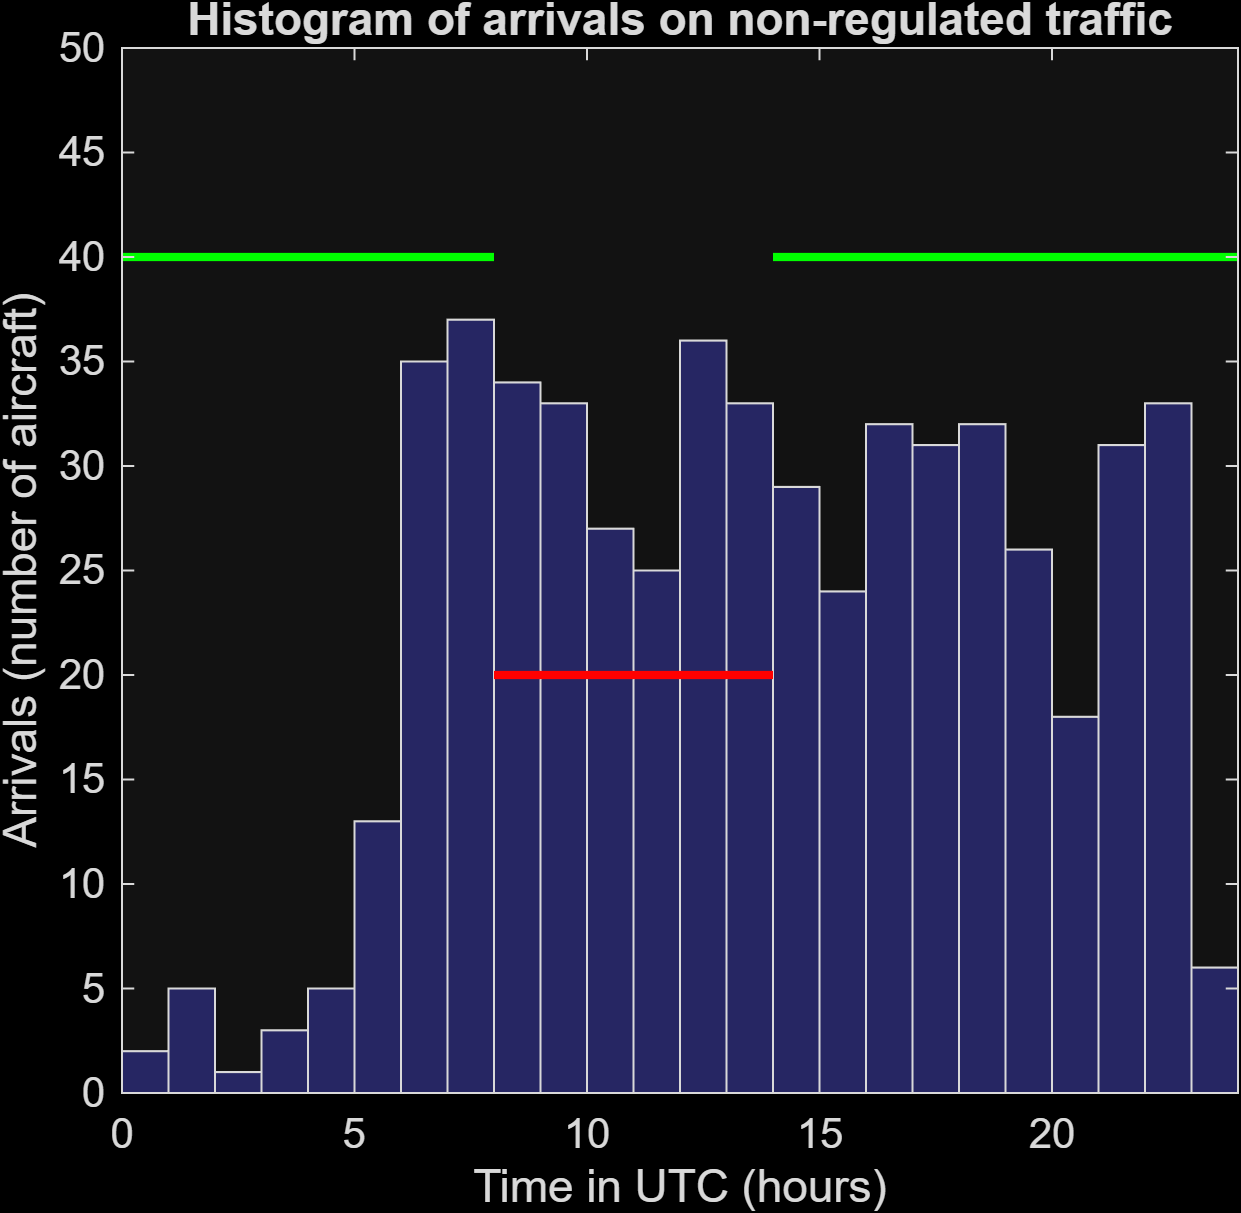
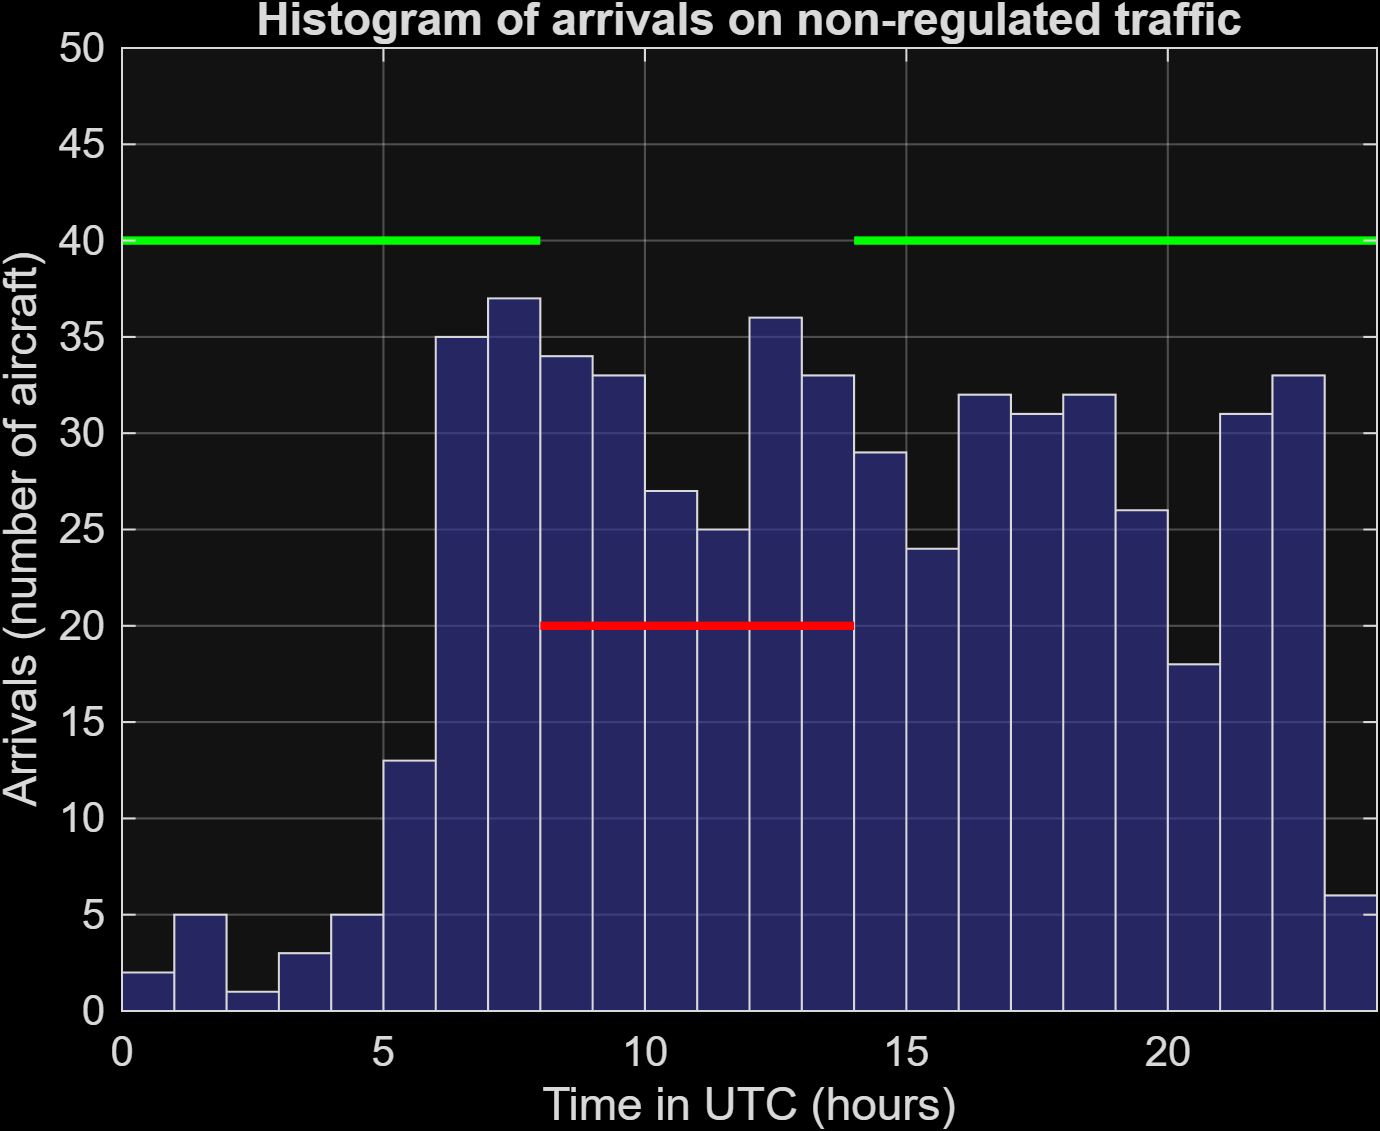
Done

diff --git a/calcular_regulacion.m b/calcular_regulacion.m
@@ -1,70 +1,76 @@
-function [HNoReg, totalDelay] = calcular_regulacion(ETA, Hstart1, Hend1, Hstart2, Hend2, PAAR, AAR)
-% WP1 - Version sencilla y correcta: acumulamos desde el inicio de regulacion (Hstart1)
-
-    % 1) ETA a minutos del día
-    ETA_min = round(mod(ETA * 24 * 60, 1440));   % 0..1440
-
-    % 2) Pasar horas a minutos
-    start1 = round(Hstart1*60);  end1 = round(Hend1*60);
-    start2 = round(Hstart2*60);  end2 = round(Hend2*60);
-
-    % 3) Tiempo de análisis: desde start1 hasta fin del día
-    t = (start1:1440)';                 % minutos
-    nT = length(t);
-
-    % 4) DEMANDA por minuto (solo contamos llegadas desde start1 en adelante)
-    arrivalsPerMin = zeros(nT,1);
-    for i = 1:length(ETA_min)
-        m = ETA_min(i);
-        if m >= start1 && m <= 1440
-            idx = (m - start1) + 1;     % convertir minuto real a índice de vector t
-            arrivalsPerMin(idx) = arrivalsPerMin(idx) + 1;
-        end
+function [HNoReg, delay] = calcular_regulacion(ETA, Hstart, Hend, PAAR, AAR)
+    %Funcion para calcular la hora de final de regulacion y hacer el
+    %grafico de aggregate demand
+    if max(ETA) <= 1
+        ETA_hores = ETA * 24; 
+    else
+        ETA_hores = ETA; 
     end
-
-    % 5) CAPACIDAD por minuto (desde start1)
-    capPerMin = zeros(nT,1);
-    for k = 1:nT
-        minutoReal = t(k);
-
-        if (minutoReal >= start1 && minutoReal <= end1) || (minutoReal >= start2 && minutoReal <= end2)
-            capPerMin(k) = PAAR/60;
+    minutos_dia = (0:1440)';
+    
+    % DEMANDA AGREGADA
+    vols_per_minut = histcounts(ETA_hores * 60, [minutos_dia', 1442]);
+    AggregateDemand = [minutos_dia, cumsum(vols_per_minut)'];
+    
+    %Cálculo de capacidades nominal y reducida
+    Cap_Red = zeros(1441, 1); 
+    Cap_Nom = zeros(1441, 1);
+    Cap_Red(1) = AggregateDemand(1, 2); 
+    Cap_Nom(1) = AggregateDemand(1, 2);
+    
+    for i = 2:1441
+        t = minutos_dia(i) / 60;
+        r_nom = AAR / 60;
+        Cap_Nom(i) = min(Cap_Nom(i-1) + r_nom, AggregateDemand(i, 2));
+        
+        if t >= Hstart && t < Hend
+            r_red = PAAR / 60; 
         else
-            capPerMin(k) = AAR/60;
+            r_red = AAR / 60; 
         end
+        Cap_Red(i) = min(Cap_Red(i-1) + r_red, AggregateDemand(i, 2));
     end
-
-    % 6) Acumuladas (como piden las slides)
-    DemandCum   = cumsum(arrivalsPerMin);
-    CapacityCum = cumsum(capPerMin);
-
-    % 7) Cola / backlog y delay mínimo total
-    Backlog = DemandCum - CapacityCum;
-    Backlog(Backlog < 0) = 0;
-
-    totalDelay = sum(Backlog);
-
-    % 8) HNoReg = primer minuto despues del final de la 2ª ventana donde backlog = 0
-    HNoReg = NaN;
-    for minutoReal = (end2+1):1440
-        k = (minutoReal - start1) + 1;
-        if k >= 1 && k <= nT && Backlog(k) == 0
-            HNoReg = minutoReal/60;
-            break
-        end
+    
+    % Cálculo Delay y HNoReg
+    delay = sum(AggregateDemand(:, 2) - Cap_Red);
+    idx_recuperacion = find(minutos_dia/60 >= Hend & Cap_Red >= AggregateDemand(:, 2), 1);
+    if isempty(idx_recuperacion)
+        HNoReg = 24; 
+    else
+        HNoReg = minutos_dia(idx_recuperacion)/60; 
     end
-    if isnan(HNoReg)
-        HNoReg = 24;
-    end
-
-    % 9) Plot de verificación
-    figure;
-    plot(t/60, DemandCum, 'LineWidth', 2); hold on;
-    plot(t/60, CapacityCum, 'LineWidth', 2);
+    %Cálculo average delay
+    total_vuelos = AggregateDemand(end, 2);
+    average_delay = delay / total_vuelos;
+    
+    %Plot
+    figure; 
+    hold on; 
     grid on;
-    xlabel('Time (UTC hours)');
-    ylabel('Cumulative arrivals (from Hstart1)');
-    legend('Aggregate Demand','Aggregate Capacity','Location','best');
-    title('WP1 - Aggregate demand vs capacity (from start of regulation)');
+    
+    p_dem = plot(minutos_dia/60, AggregateDemand(:, 2), 'k', 'LineWidth', 2.5);
+     
+    idx_start = find(minutos_dia/60 >= Hstart, 1);
+    p_nom = plot(minutos_dia(idx_start:end)/60, Cap_Nom(idx_start:end), 'k--', 'LineWidth', 1.5);
+    
+    idx_end = find(minutos_dia/60 >= Hend, 1);
+    idx_noreg = find(minutos_dia/60 >= HNoReg, 1);
+    
+    p_red_restr = plot(minutos_dia(idx_start:idx_end)/60, Cap_Red(idx_start:idx_end), 'k:', 'LineWidth', 2.5);
+    
+    if ~isempty(idx_noreg) && idx_noreg > idx_end
+        p_red_recov = plot(minutos_dia(idx_end:idx_noreg)/60, Cap_Red(idx_end:idx_noreg), 'k--', 'LineWidth', 2);
+    end
+    
 
+    uistack(p_dem, 'top');
+    title('Aggregate demand'); xlabel('Time in UTC (hour)'); ylabel('demand (Number of aircraft)');
+    xlim([2 24]);
+    legend([p_dem, p_red_restr, p_nom], {'Aggregate demand', 'Capacity reduced', 'Capacity nominal'}, 'Location', 'northwest');
+    
+    fprintf('HNoReg: %.2f h | Total Delay: %.2f min\n', HNoReg, delay);
+    fprintf('Average Delay per Flight: %.2f min\n', average_delay);
+
+    exportgraphics(gcf, 'Aggregate demand.png', 'Resolution', 300);
+    
 end

diff --git a/main.m b/main.m
@@ -1,67 +1,58 @@
-%% MAIN.M (WP1) - LEBL 10AUG2025
 clearvars
 clc
 close all
 
-%% 1) Cargar datos desde el Excel
+%% Cargar Datos desde el xlsx
 aeropuerto = "LEBL_10AUG2025.xlsx";
 
-% Leer hoja de llegadas
-llegadas = readtable(aeropuerto, 'Sheet', 'LLEGADAS');
+% Guarda todos los datos (lee la primera hoja)
+data = readtable(aeropuerto);
 
-%% 2) Preparar horas de llegada para histograma
-% ETA está en fracción de día 
-horas_vuelos = mod(llegadas.ETA * 24, 24);  
+% Guarda solo la segunda hoja del excel (llegadas)
+llegadas = readtable(aeropuerto,'Sheet','LLEGADAS');
 
-%% 3) Parámetros de capacidad y regulación
-AAR  = 40;   % capacidad nominal (arrivals/hour)
-PAAR = 20;   % capacidad reducida (arrivals/hour)
+% Pasar ETA a horas (está en fracción de día)
+horas_vuelos = llegadas.ETA * 24;  
 
-% Periodo reducido 1: 08:00 - 14:00
-Hstart1 = 8;
-Hend1   = 14;
+%% Parámetros
+AAR = 40;      % capacidad nominal (arrivals/hour)
+PAAR = 20;     % capacidad reducida
+Hfile = 6;     % hora publicación regulación (aún no usado en WP1)
+Hstart = 8;    % inicio reducción
+Hend = 14;     % fin reducción
 
-% Periodo reducido 2: 16:00 - 20:00
-Hstart2 = 16;
-Hend2   = 20;
-
-%% 4) Gráfico: histograma de demanda + líneas de capacidad (2 periodos)
+%% Gráfico demanda-capacidad
 figure;
+histogram(horas_vuelos, 0:24, 'FaceColor', [0.2 0.2 0.6]); 
+hold on; 
 
-% Histograma de llegadas por hora
-histogram(horas_vuelos, 0:24, 'FaceColor', [0.2 0.2 0.6]);
-hold on;
+plot([0, Hstart], [AAR, AAR], 'g', 'LineWidth', 2);
+plot([Hstart, Hend], [PAAR, PAAR], 'r', 'LineWidth', 2);
+plot([Hend, 24], [AAR, AAR], 'g', 'LineWidth', 2);
 
-% Líneas de capacidad (AAR verde, PAAR rojo) en 2 tramos reducidos
-plot([0, Hstart1],   [AAR, AAR],   'g', 'LineWidth', 2);   % AAR
-plot([Hstart1, Hend1],[PAAR, PAAR],'r', 'LineWidth', 2);   % PAAR
-plot([Hend1, Hstart2],[AAR, AAR],  'g', 'LineWidth', 2);   % AAR
-plot([Hstart2, Hend2],[PAAR, PAAR],'r', 'LineWidth', 2);   % PAAR
-plot([Hend2, 24],    [AAR, AAR],   'g', 'LineWidth', 2);   % AAR
-
-title('Histogram of arrivals and capacity (two reduced periods)');
+title('Histogram of arrivals on non-regulated traffic');
 xlabel('Time in UTC (hours)');
 ylabel('Arrivals (number of aircraft)');
-xlim([0, 24]);
+xlim([0, 24]);          
 ylim([0, AAR + 10]);
 grid on;
 
 hold off;
 
-exportgraphics(gcf, 'Histograma_Arribades_2periodos.png', 'Resolution', 300);
+exportgraphics(gcf, 'Histograma_Arribades.png', 'Resolution', 300);
 
-%% 5) WP1 - Calcular HNoReg y delay mínimo total (2 ventanas)
-% Llamada a la función común (debe existir como calcular_regulacion.m)
-[HNoReg, delay] = calcular_regulacion(llegadas.ETA, ...
-    Hstart1, Hend1, Hstart2, Hend2, PAAR, AAR);
+%% Calcular regulación (WP1)
+[HNoReg, delay] = calcular_regulacion(llegadas.ETA, Hstart, Hend, PAAR, AAR);
 
-% Mostrar resultados
 fprintf('HNoReg = %.2f UTC hours\n', HNoReg);
 fprintf('Total minimum delay = %.2f (minutes * aircraft)\n', delay);
 
-slots = compute_slots(Hstart1, Hend1, Hstart2, Hend2, HNoReg, PAAR, AAR);
+%% Crear slots (WP1)
+slots = compute_slots(Hstart, Hend, HNoReg, PAAR, AAR);
 
-% Ver primeras filas
+% Mostrar primeras filas para comprobar
+disp('Primeros 10 slots:')
 disp(slots(1:10,:))
 
+% Guardar slots por si se necesitan después
 writematrix(slots, 'slots_WP1.csv');

diff --git a/compute_slots.m b/compute_slots.m
@@ -1,34 +1,36 @@
-function slots = compute_slots(Hstart1, Hend1, Hstart2, Hend2, HNoReg, PAAR, AAR)
-% Crea la matriz de slots desde Hstart1 hasta HNoReg (en minutos)
+function slots = compute_slots(Hstart, Hend, HNoReg, PAAR, AAR)
+% compute_slots (WP1)
+% Crea la matriz de slots desde Hstart hasta HNoReg (en minutos).
 % Cada fila: [inicio_slot_min, idVuelo, airline]
-% idVuelo y airline empiezan en 0.
+% Al principio idVuelo y airline son 0.
 
-    start1 = round(Hstart1*60);  end1 = round(Hend1*60);
-    start2 = round(Hstart2*60);  end2 = round(Hend2*60);
-    endReg = round(HNoReg*60);
+    % Pasar horas a minutos
+    startMin = round(Hstart * 60);
+    endRedMin = round(Hend * 60);
+    endRegMin = round(HNoReg * 60);
 
-    % Tamaños de slot (minutos por llegada)
-    slotA = 60 / AAR;
-    slotP = 60 / PAAR;
+    % Tamaño de slot (minutos por llegada)
+    slotReduced = 60 / PAAR;   % dentro de la ventana reducida
+    slotNominal = 60 / AAR;    % fuera de la ventana reducida
 
-    % Empezamos en el inicio de regulación
-    current = start1;
+    % Inicializar
+    current = startMin;
+    slots = [];
 
-    slots = [];  % iremos añadiendo filas
+    % Crear slots hasta HNoReg
+    while current <= endRegMin
 
-    while current <= endReg
-        % Decidir si estamos en periodo reducido o no
-        if (current >= start1 && current <= end1) || (current >= start2 && current <= end2)
-            slotSize = slotP;
+        % Si estamos en periodo reducido -> slotReduced, si no -> slotNominal
+        if current <= endRedMin
+            slotSize = slotReduced;
         else
-            slotSize = slotA;
+            slotSize = slotNominal;
         end
 
-        % Añadir slot: [inicio, 0, 0]
-        slots = [slots; round(current), 0, 0];
+        % Añadir una fila (3 columnas)
+        slots = [slots; round(current), 0, 0]; %#ok<AGROW>
 
         % Avanzar al siguiente slot
-        current = round(current + slotSize); 
-        % slots en minutos enteros
+        current = round(current + slotSize);
     end
 end
